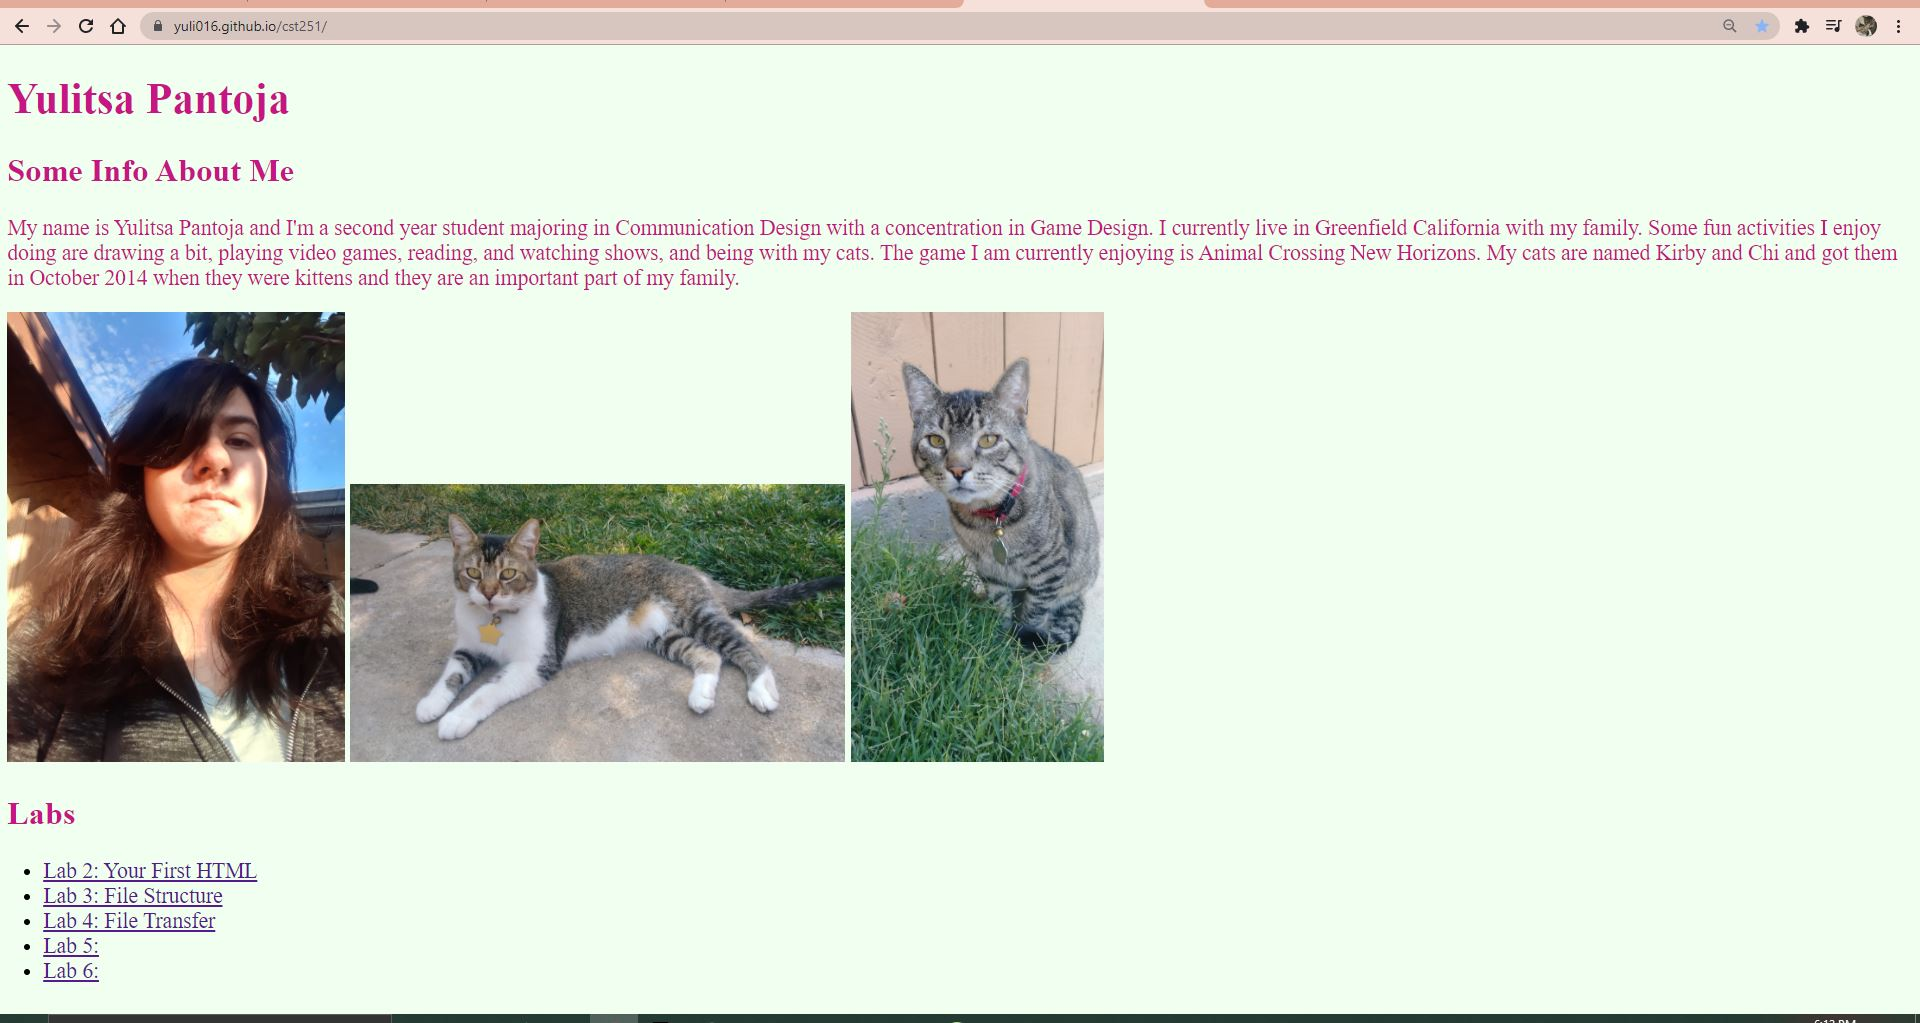
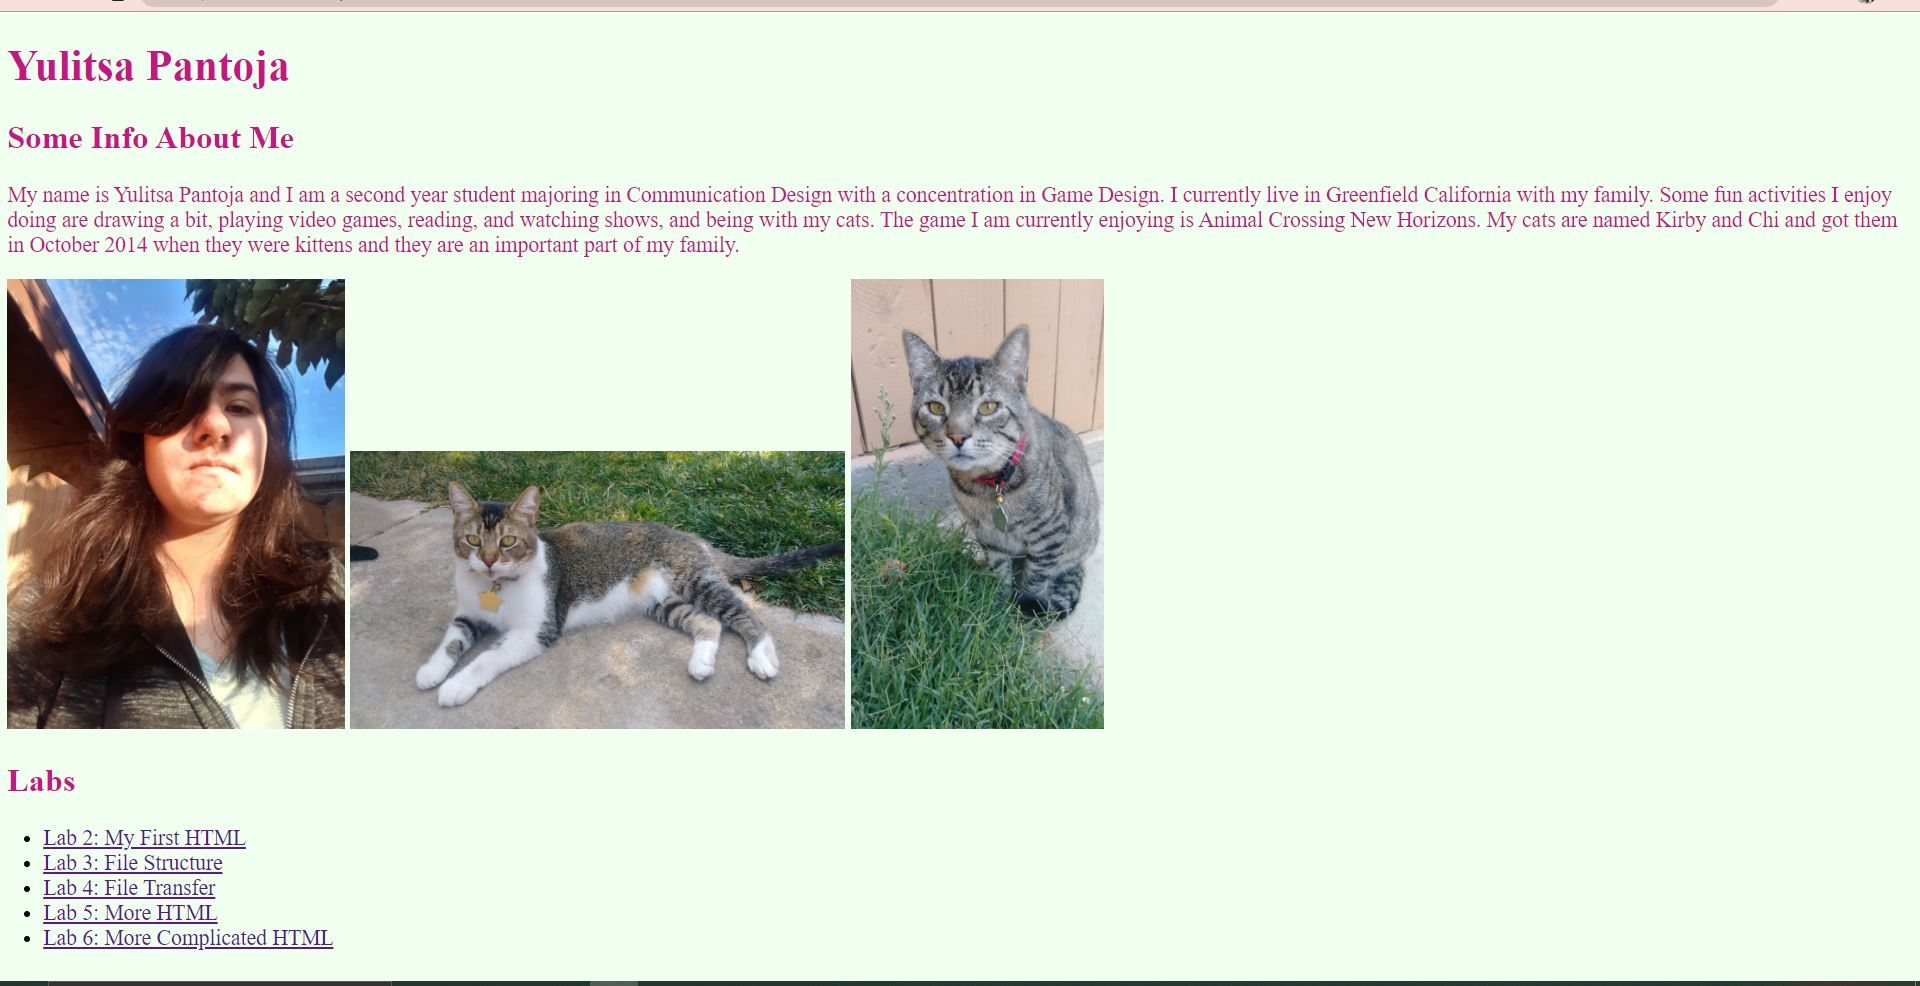
Updating all lab index.html files
Adding picture and fixing codes and putting link back to home page at the bottom of page.

Changed region(s): [[0.0, 0.0, 1.0, 0.7606], [0.0, 0.8215, 1.0, 1.0], [0.0, 0.7911, 0.0312, 0.8215]]

diff --git a/lab3/index.html b/lab3/index.html
@@ -7,52 +7,41 @@
 </head>
 <body style="background-color:Lavender;">
 <h1 style="color:MidnightBlue;">Lab 3 File Structure</h1>
-
-<p style="color:MidnightBlue;">This lab was created to make a local file structure
-on my computer and add index.html files to organize my files and create links to
-my other labs on my home page. </p>
+	<p style="color:MidnightBlue;">This lab was created to make a local file structure
+		on my computer and add index.html files to organize my files and create links to
+		my other labs on my home page. </p>
 
 <h2 style="color:MidnightBlue;">Challenges</h2>
+	<p style="color:MidnightBlue;">It was simple in creating the file structure because
+		most of it was already prepared when I downloaded it.  Some of the difficulty I had
+		was writing the codes to make my links work and to make my pictures show up. I
+		followed writing the codes for each lab and had difficulty to make lab 3 show up
+		but I simply fixed this issue by naming correctly my index.html because I accidently
+		typed it wrong.  My images after looking over how to correctly link the images to the
+		correct folders they were now showing on my home page.</p>
 
-<p style="color:MidnightBlue;">It was simple in creating the file structure because
-most of it was already prepared when I downloaded it.  Some of the difficulty I had
-was writing the codes to make my links work and to make my pictures show up. I
-followed writing the codes for each lab and had difficulty to make lab 3 show up
-but I simply fixed this issue by naming correctly my index.html because I accidently
-typed it wrong.  My images after looking over how to correctly link the images to the
-correct folders they were now showing on my home page.</p>
-
-	<h2 style="color:MidnightBlue;">Results</h2>
-
+<h3 style="color:MidnightBlue;">Results</h3>
 	<p style="color:MidnightBlue;">Currently you are looking at my index.html file
-	I created and it’s properly working.  This page is my Lab 3 File Structure with
-	an image at the bottom of my file structure screenshot on my computer and describing
-	the challengers I had while creating this.</p>
+		I created and it’s properly working.  This page is my Lab 3 File Structure with
+		an image at the bottom of my file structure screenshot on my computer and describing
+		the challengers I had while creating this.</p>
 
-	</div>
-	</div>
+<figure>
+	<img src="img/file.jpg" alt="My File Structure" width="700">
+		<figcaption style="color:MidnightBlue;">My File Structure Screenshot</figcaption>
+	<img src="img/cst-index-code.jpg" alt="Cst251 Index Code" width="700">
+		<figcaption style="color:MidnightBlue;">Cst251 Index Code</figcaption>
+	<img src="img/lab3-code.jpg" alt="Lab 3 Index Code" width="700">
+		<figcaption style="color:MidnightBlue;">Lab 3 HTML Codes</figcaption>
+	<img src="img/browser.jpg" alt="Results In Browser" width="1000">
+		<figcaption style="color:MidnightBlue;">Results On The Browser</figcaption>
+</figure>
 
 	<nav class="assignments major-section">
 		<ul>
 			<li><a href="../index.html">Back To Home Page</a></li>
 		</ul>
 	</nav>
-
-<figure>
-
-	<img src="img/file.jpg" alt="My File Structure" width="600">
-		<figcaption style="color:MidnightBlue;">My File Structure Screenshot</figcaption>
-
-	<img src="img/cst-index-code.jpg" alt="Cst251 Index Code" width="600">
-		<figcaption style="color:MidnightBlue;">Cst251 Index Code</figcaption>
-
-	<img src="img/lab3-code.jpg" alt="Lab 3 Index Code" width="600">
-		<figcaption style="color:MidnightBlue;">Lab 3 HTML Codes</figcaption>
-
-	<img src="img/browser.jpg" alt="Results In Browser" width="800">
-		<figcaption style="color:MidnightBlue;">Results On The Browser</figcaption>
-
-</figure>
 
 </body>
 </html>

diff --git a/index.html b/index.html
@@ -9,22 +9,19 @@
 
 	<h1 style="color:MediumVioletRed;">Yulitsa Pantoja</b></h1>
 
-	<h2 style="color:MediumVioletRed;">Some Info About Me</h2>
-
+<h2 style="color:MediumVioletRed;">Some Info About Me</h2>
 	<p style="color:MediumVioletRed;">My name is Yulitsa Pantoja and I am a second
-		year student majoring in Communication Design with a concentration in Game
-		Design.  I currently live in Greenfield California with my family.  Some fun
-		activities I enjoy doing are drawing a bit, playing video games, reading,
-		and watching shows, and being with my cats.  The game I am currently enjoying
-		is Animal Crossing New Horizons.  My cats are named Kirby and Chi and got them
-		in October 2014 when they were kittens and they are an important part of my
-		family. </p>
+	year student majoring in Communication Design with a concentration in Game
+	Design.  I currently live in Greenfield California with my family.  Some fun
+	activities I enjoy doing are drawing a bit, playing video games, reading,
+	and watching shows, and being with my cats.  The game I am currently enjoying
+	is Animal Crossing New Horizons.  My cats are named Kirby and Chi and got them
+	in October 2014 when they were kittens and they are an important part of my
+	family.</p>
 
-<img src="./img/my-picture.jpg" alt="Picture of my Face" style= "height:500px;"/>
-
-<img src="./img/kirby.jpg" alt="Kirby laying on ground" style= "width:550px;" />
-
-<img src="./img/chi.jpg" alt="Chi next to grass" style= "height:500px;" />
+	<img src="./img/my-picture.jpg" style= "height:500px;"/>
+	<img src="./img/kirby.jpg" style= "width:550px;" />
+	<img src="./img/chi.jpg" style= "height:500px;" />
 
 		</div>
 	</div>
@@ -36,11 +33,9 @@
 				<li><a href="lab3/index.html">Lab 3: File Structure</a></li>
 				<li><a href="lab4/index.html">Lab 4: File Transfer</a></li>
 				<li><a href="lab5/index.html">Lab 5: More HTML</a></li>
-				<li><a href="lab6/index.html">Lab 6: </a></li>
+				<li><a href="lab6/index.html">Lab 6: More Complicated HTML</a></li>
 		</ul>
 	</nav>
-
-<figure>
 
 </body>
 </html>

diff --git a/lab5/index.html b/lab5/index.html
@@ -87,7 +87,7 @@ figcaption {
 	<div class="row">
 		<div class="column">
 			<figure>
-					<img src="img/Cats.jpg" alt="Two Cats" style="width:100%">
+					<img src="img/cats.jpg" alt="Two Cats" style="width:100%">
 						<figcaption style="color:#fae8d6;">Chi & Black Kitten</figcaption>
 		</div>
 		<div class="column">
@@ -100,6 +100,7 @@ figcaption {
 			</figure>
 		</div>
 	</div>
+
 <h4 style="color:#c88937;">Some Of My Favorite Websites & Shows on Youtube</h4>
 <nav>
 	<ol>
@@ -115,13 +116,33 @@ figcaption {
 		</figure>
 	</ol>
 </nav>
+
 <h5 style="color:#c88937;">My Screenshots Progress</h5>
-	<img src="img/lab5codes.jpg" style="width:700px">
-		<figcaption style="color:#fae8d6;">Lab 5 Codes</figcaption>
-	<img src="img/lab5browser.jpg" style="width:1200px">
-		<figcaption style="color:#fae8d6;">Lab 5 On Local Browser</figcaption>
-	<img src="img/severbrowser.jpg" style="width:100%">
-		<figcaption style="color:#fae8d6;">Lab 5 On Sever Browser</figcaption>
+<div class="row">
+	<div class="column">
+		<figure>
+			<img src="img/lab5codes.jpg" style="width:800px">
+				<figcaption style="color:#fae8d6;">Lab 5 Codes</figcaption>
+	</div>
+	<div class="column">
+			<img src="img/lab5browser.jpg" style="width:1200px">
+				<figcaption style="color:#fae8d6;">Lab 5 On Local Browser</figcaption>
+		</figure>
+	</div>
+</div>
+
+<div class="row">
+	<div class="column">
+		<figure>
+			<img src="img/github.jpg" style="width:800px">
+					<figcaption style="color:#fae8d6;">Github Changes</figcaption>
+	</div>
+	<div class="column">
+			<img src="img/severbrowser.jpg" style="width:1200px">
+				<figcaption style="color:#fae8d6;">Lab 5 On Sever Browser</figcaption>
+		</figure>
+	</div>
+</div>
 
 	<nav class="assignments major-section">
 		<ul>

diff --git a/lab2/helloworld.html b/lab2/helloworld.html
@@ -24,30 +24,24 @@
     were kittens. The game I'm currently enjoy playing is Animal Crossing New
     Horizons. It will be fun learning how to write codes and design websites.
 
-  </div>
-	</div>
-
-	<nav class="assignments major-section">
-		<ul>
-			<li><a href="../index.html">Back To Home Page</a></li>
-		</ul>
-	</nav>
-
   <figure>
-
   	<img src="img/lab2file.jpg" alt="File Structure" width="600">
   		<figcaption style="color:DarkRed;">My File Structure Screenshot</figcaption>
-
   	<img src="img/lab2codes.jpg" alt="Lab 2 Codes" width="600">
   		<figcaption style="color:DarkRed;">Lab 2 HTML Codes</figcaption>
-
   	<img src="img/lab2browser.jpg" alt="Lab 2 Results In Browser" width="600">
   		<figcaption style="color:DarkRed;">Lab 2 Results On The Browser</figcaption>
-
   	<img src="img/inspector.jpg" alt="Inspector Screenshot" width="800">
   		<figcaption style="color:DarkRed;">Inspector Pane</figcaption>
-
   </figure>
+</div>
+</div>
+
+  <nav class="assignments major-section">
+    <ul>
+      <li><a href="../index.html">Back To Home Page</a></li>
+    </ul>
+  </nav>
 
   </body>
 </html>
